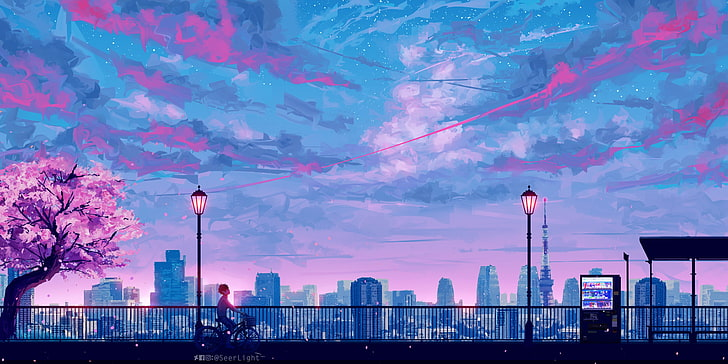
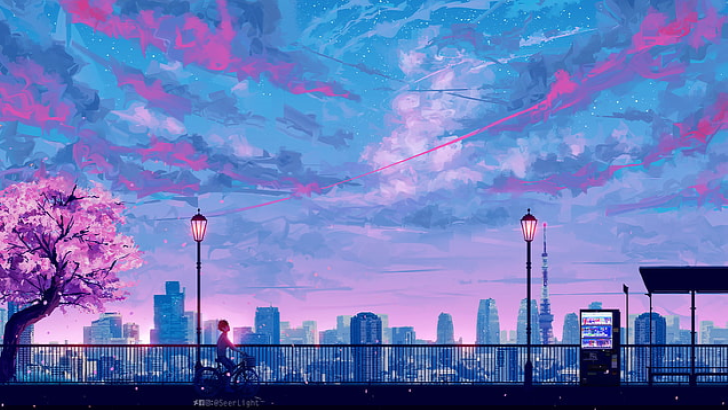
ty to set background for home site

diff --git a/src/main/resources/templates/layout.html b/src/main/resources/templates/layout.html
@@ -3,7 +3,7 @@
       lang="en">
 
 <head>
-    <title>Diaryst</title>
+    <title>Layout</title>
 
     <meta http-equiv="Content-Type" content="text/html; charset=UTF-8" />
     <meta id="Viewport" name="viewport" content="width=device-width, initial-scale=1.0, maximum-scale=1, minimum-scale=1, user-scalable=no, shrink-to-fit=no" />
@@ -33,6 +33,9 @@
             </button>
             <div class="collapse navbar-collapse" id="navbarNav">
                 <ul class="navbar-nav">
+                    <li class="nav-item">
+                        <a class="nav-link" th:href="@{/diaryst}" th:classappend="${#request.requestURI == '/diaryst' ? 'active':''}"><h2>Diaryst</h2></a>
+                    </li>
                     <li class="nav-item">
                         <a class="nav-link" th:href="@{/}" th:classappend="${#request.requestURI == '/' ? 'active':''}"><h2>Today</h2></a>
                     </li>

diff --git a/src/main/resources/templates/diaryst.html b/src/main/resources/templates/diaryst.html
@@ -1,0 +1,15 @@
+<!DOCTYPE html>
+<html th:replace="~{layout :: layout (~{::body})}" lang="en">
+<head>
+  <meta charset="UTF-8">
+  <title>Diaryst</title>
+
+<!--  <link rel="stylesheet" media="screen" th:href="@{/css/style.css}"/>-->
+
+</head>
+<body>
+<!--th:style="'background:url('+ @{/images/background.jpg} +');'">-->
+<!--        th:style="'background:url('+ @{/image/background.jpg} +');'">-->
+<!--        th:style="'background: url(/images/background.jpg) no-repeat center center fixed;'">-->
+</body>
+</html>

diff --git a/src/main/resources/static/css/style.css b/src/main/resources/static/css/style.css
@@ -15,3 +15,7 @@ text {
     font-family: Candara;
     text-align: center
 }
+.background {
+    width: 100%;
+    background-image: url('../images/background.jpg');
+}

diff --git a/src/main/java/com/example/demo/Note.java b/src/main/java/com/example/demo/Note.java
@@ -49,8 +49,6 @@ public class Note implements Comparable {
     )
     private Integer emotion;
 
-    //private List imageList;
-
     @Column(
             name = "owner",
             columnDefinition = "Text"
@@ -67,7 +65,6 @@ public class Note implements Comparable {
 
     public Note() {
         this.date = LocalDate.now();
-
     }
 
     public Long getId() {
@@ -128,7 +125,6 @@ public class Note implements Comparable {
 //                ", emotion=" + emotion +
 //                '}';
 //    }
-
 
     @Override
     public int compareTo(Object o) {

diff --git a/src/main/java/com/example/demo/DiaryController.java b/src/main/java/com/example/demo/DiaryController.java
@@ -33,6 +33,12 @@ public class DiaryController {
         this.diaryService = diaryService;
     }
 
+    @GetMapping(path = Endpoints.Site.DIARYST)
+    public ModelAndView mainPage(Model model){
+
+        return new ModelAndView(ViewNames.DIARYST);
+    }
+
     @GetMapping(path = Endpoints.Site.OVERVIEW)
     public ModelAndView overviewPage(@AuthenticationPrincipal OidcUser user,  Model model){
         var noteList = diaryService.getNotesUser(user);

diff --git a/src/main/java/com/example/demo/config/Endpoints.java b/src/main/java/com/example/demo/config/Endpoints.java
@@ -4,6 +4,7 @@ public class Endpoints {
 
     public static class Site {
 
+        public static final String DIARYST = "/diaryst";
         public static final String OVERVIEW = "/overview";
         public static final String SETTINGS = "/settings";
         public static final String HOME = "/";

diff --git a/src/main/java/com/example/demo/config/ViewNames.java b/src/main/java/com/example/demo/config/ViewNames.java
@@ -2,6 +2,7 @@ package com.example.demo.config;
 
 public class ViewNames {
 
+    public static final String DIARYST = "diaryst";
     public static final String HOME = "home";
     public static final String HOME2 = "homeExistNote";
     public static final String OVERVIEW = "overview";
